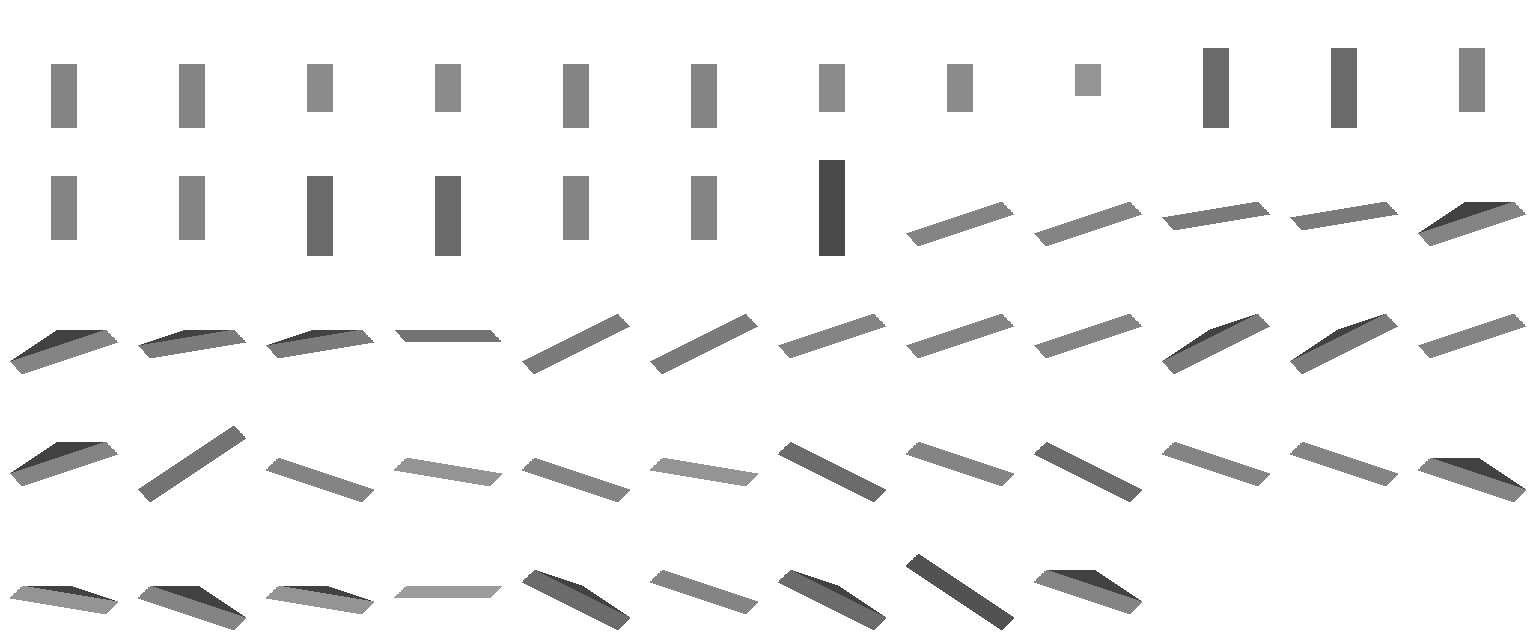
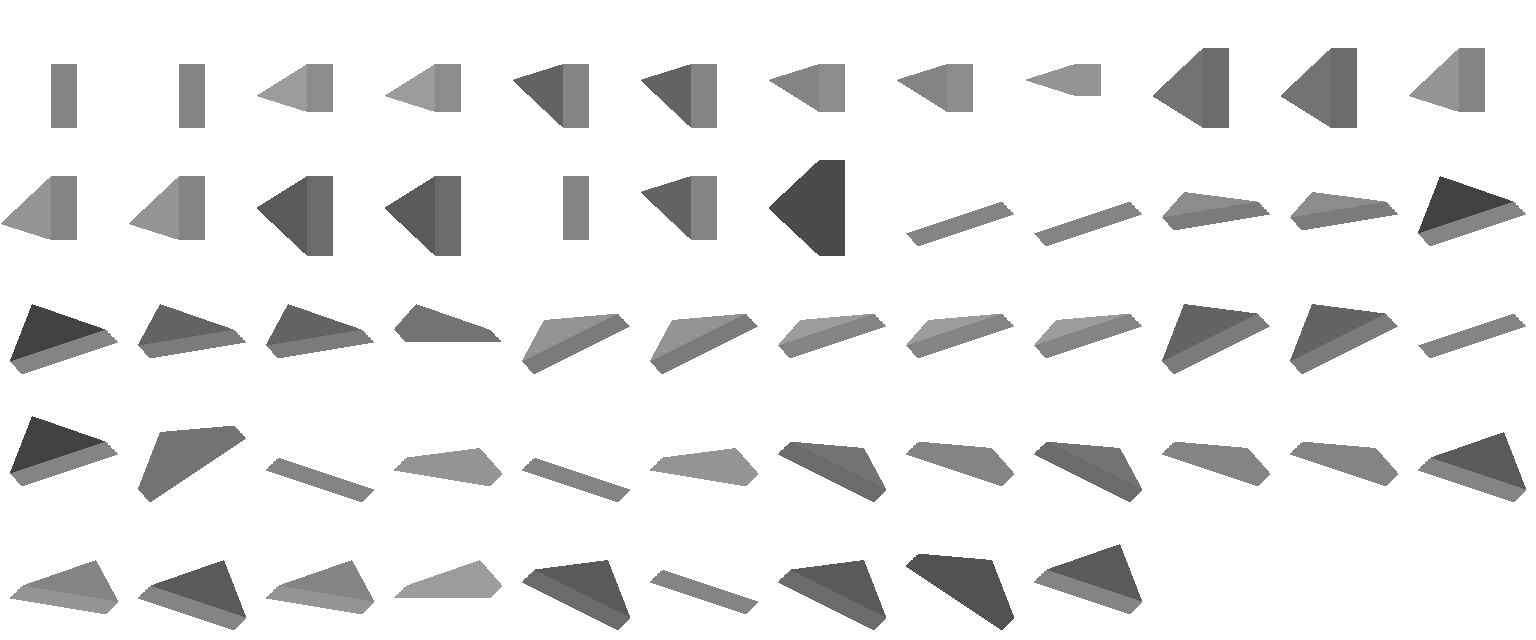
way_wall: slope side face from chord edge out to natural-ground corner
Apex moves from the chord strip's long-edge midpoint (degenerate in
plan) to the off-axis hex corner xy.  The triangle becomes a real
sloped face — a nasyp / cut angle — with apex height equal to natural
ground at the actual corner, so the wall meets the surrounding terrain
exactly at its boundary instead of approximating mid-edge ground
height.  Lambert grey now reads as terrain shade rather than uniform
wall grey; the front sprite, previously a vertical wall sliver, now
blends with the climate-textured ground.

Side-effect: NS-axis front cells, which previously rendered as zero-
width verticals and got filtered out, now have plan-view area and are
emitted (front atlas: 28 -> 48 cells).

Trim the corner-at-`t=0.5` invariant — it was load-bearing only for
the old apex placement.  Replace with the invariant the new geometry
depends on: `AXIS_OFF_AXIS_CORNERS`'s signed pairing (off_pos on
+perp, off_neg on -perp) lines up with `side_sign`'s winding flip.

diff --git a/landscape/grounds/way_wall/build_pakset.py b/landscape/grounds/way_wall/build_pakset.py
@@ -5,9 +5,10 @@ A way running through a tile on one of the three hex axes occupies a
 chord strip of half-width `hex_synth.WAY_HALF_WIDTH` from one touched
 edge midpoint to the opposite midpoint, at chord height `h_way`.
 Outside the strip is natural ground at the slope's corner heights.
-Where they differ the engine renders a vertical wall along the strip's
-long edge — a *cut* face if natural ground rises above the way
-(`h_off > h_way`), a *nasyp* face if it sinks below.
+Where they differ the engine renders an angled face spanning from the
+strip's long edge at chord height to the off-axis corner at natural
+ground height — a *cut* slope if natural ground rises above the way
+(`h_off > h_way`), a *nasyp* (embankment) slope if it sinks below.
 
 Cells ship as **lightmaps**: per-face Lambert grey under
 `hex_synth.LIGHT` in RGB, coverage mask in alpha.  The engine composes
@@ -34,17 +35,19 @@ along `hex_synth.front_back_split`:
 encoding `texture_lightmap` uses).  Only slopes admitting a way on
 that axis are emitted; others read as `IMG_EMPTY`.
 
-Geometry per cell: one triangle per off-axis side, anchored at the
-chord strip's long edge.  The base follows the chord plane (ramped
-on ramp axes) from `(p_start, h_we1)` to `(p_end, h_we2)`; the apex
-sits at the long edge's midpoint at the off-axis corner's natural
-height `h_off`.  At the touched-edge ends the wall has zero height —
-the level-edge constraint (`axis_h_way`) guarantees natural ground
-is at `h_we` there, so the wall must taper to nothing.  Apex height
-= corner height is exact only at the corner itself; the engine's
-surface triangulation between the long edge and the corner is not
-mirrored here, so the apex slightly over- or under-estimates the
-true ground height at the long edge's midpoint.
+Geometry per cell: one triangle per off-axis side.  The base
+follows the chord plane (ramped on ramp axes) along the chord
+strip's long edge from `(p_start, h_we1)` to `(p_end, h_we2)`; the
+apex sits at the off-axis hex corner `(corner_xy, h_off)`.  At the
+touched-edge ends the slope has zero height — the level-edge
+constraint (`axis_h_way`) guarantees natural ground is at `h_we`
+there, so the face must taper to nothing.  Because the apex lies at
+the corner itself, apex height = corner height is exact: the
+triangle's three vertices all sit on real ground points, so the
+embankment face matches the natural-ground surface at its boundary.
+The face is no longer vertical — its normal tilts toward +z — so
+its Lambert grey reads as a sloped terrain surface (real nasyp /
+cut angle) rather than a wall.
 
 The engine's `grund_t::display_way_walls` calls `get_way_wall_back_image`
 in `display_boden` before the way draw; `display_way_walls_front` calls
@@ -102,32 +105,27 @@ def _face_lightmap_rgb(face_pts_world,
 
 
 def _validate_axis_geometry() -> None:
-    """Module-load asserts on the hex-axis geometry the triangle wall
-    depends on.  Cheap (3 axes × a handful of dot products) and runs
-    once at import; cheap insurance against `hex_synth` changing one
-    of these invariants out from under us.
+    """Module-load asserts on the hex-axis invariants the side-slope
+    triangle depends on.  Cheap insurance against `hex_synth` changing
+    one of these out from under us.
 
     Invariants:
 
-      * The midpoint of `(mp1, mp2)` is the hex centre `(0, 0)` for
-        every axis.  Equivalent: `mp2 == -mp1`, since the touched
-        edges are antipodal across the centre.  This is what makes
-        the long-edge midpoint reduce to `side_sign * WAY_HALF_WIDTH
-        * perp`.
       * `axis_perp_vector(axis)` is parallel (up to sign) to the
-        touched-edge direction.  Equivalent: the chord strip's long
-        edge ends sit on the touched-edge lines of the hex.  Without
-        this, `p_start` and `p_end` wouldn't sit on the touched edges
-        and the wall's "zero height at the ends" claim breaks.
-      * Both off-axis corners project to `t == 0.5` on the axis —
-        i.e. the apex `(p_mid, h_off)` is exactly the long edge's
-        closest point to the off-axis corner.
+        touched-edge direction.  This is what makes `p_start = mp1 +
+        side_sign * WAY_HALF_WIDTH * perp` (and `p_end` from `mp2`)
+        sit on the touched-edge line of the hex.  Combined with
+        `axis_h_way`'s level-edge constraint (both touched-edge
+        corners at `h_we`), it pins the slope's base ends to natural
+        ground — so the triangle tapers to zero height there.
+      * `AXIS_OFF_AXIS_CORNERS[axis] = (off_pos, off_neg)` puts
+        `HEX_CORNER_XY[off_pos]` on the +perp side of the axis and
+        `[off_neg]` on the -perp side.  This is the signed pairing
+        `_build_model` relies on: `side_sign = +1` is fed `corner_pos`
+        so the triangle's three vertices land on the same half-plane
+        of the axis (consistent winding → consistent outward normal).
     """
     for axis in (hex_synth.NS, hex_synth.NE_SW, hex_synth.NW_SE):
-        mp1, mp2 = hex_synth.axis_edge_midpoints(axis)
-        assert abs(mp1[0] + mp2[0]) < 1e-9 and abs(mp1[1] + mp2[1]) < 1e-9, \
-            f"axis {axis}: mp1+mp2 != 0 (mp1={mp1}, mp2={mp2})"
-
         perp = hex_synth.axis_perp_vector(axis)
         (a0_i, a1_i), _ = hex_synth.AXIS_EDGE_CORNERS[axis]
         ca = hex_synth.HEX_CORNER_XY[a0_i]
@@ -138,55 +136,62 @@ def _validate_axis_geometry() -> None:
         assert abs(cross) < 1e-9, \
             f"axis {axis}: perp not parallel to touched edge (cross={cross})"
 
-        d = (mp2[0] - mp1[0], mp2[1] - mp1[1])
-        d_norm_sq = d[0] * d[0] + d[1] * d[1]
         off_pos, off_neg = hex_synth.AXIS_OFF_AXIS_CORNERS[axis]
-        for off_i in (off_pos, off_neg):
+        for off_i, want_sign in ((off_pos, +1), (off_neg, -1)):
             c = hex_synth.HEX_CORNER_XY[off_i]
-            t = ((c[0] - mp1[0]) * d[0] + (c[1] - mp1[1]) * d[1]) / d_norm_sq
-            assert abs(t - 0.5) < 1e-9, \
-                f"axis {axis} off-axis corner {off_i}: t={t}, expected 0.5"
+            dot = c[0] * perp[0] + c[1] * perp[1]
+            assert dot * want_sign > 1e-9, (
+                f"axis {axis} off-axis corner {off_i}: "
+                f"corner·perp={dot}, expected sign {want_sign}")
 
 
 _validate_axis_geometry()
 
 
-def _side_layer(axis: int, side_sign: int) -> str:
-    """Which atlas layer carries the off-axis side cliff at `side_sign`.
+def _side_layer(axis: int, corner_xy) -> str:
+    """Which atlas layer carries the off-axis side slope whose apex is
+    at `corner_xy`.
 
-    The triangle is edge-on in plan view (all three vertices lie on
-    the chord strip's long edge), so its plan-view centroid is the
-    long edge's midpoint `side_sign * WAY_HALF_WIDTH * perp` — the
-    touched-edge midpoints sum to zero by axis symmetry.  We evaluate
-    `front_back_split` at that single point.  `"front"` means the
-    cliff is on the camera-near half — drawn after vehicles so the
+    All three triangle vertices sit on the same half-plane of the axis
+    (the perp-side check in `_validate_axis_geometry`), so any vertex
+    classifies the face identically.  We pick the corner because it's
+    the apex and the cleanest reference point.  `"front"` means the
+    slope is on the camera-near half — drawn after vehicles so the
     train occludes correctly.
     """
-    perp = hex_synth.axis_perp_vector(axis)
-    cx = side_sign * hex_synth.WAY_HALF_WIDTH * perp[0]
-    cy = side_sign * hex_synth.WAY_HALF_WIDTH * perp[1]
-    return "front" if bool(hex_synth.front_back_split(cx, cy, axis)) else "back"
+    return ("front" if bool(hex_synth.front_back_split(corner_xy[0],
+                                                       corner_xy[1], axis))
+            else "back")
 
 
 def _add_side_triangle(model: Model, mp1, mp2, perp, side_sign: int,
+                       corner_xy,
                        h_top1: int, h_top2: int, h_bot: int,
                        z_per_step: float, geom: hex_synth.HexGeom,
                        layer: str) -> None:
-    """Append one off-axis-side cliff triangle as a per-face lightmap.
+    """Append one off-axis-side slope triangle as a per-face lightmap.
 
-    Base along the chord top from `(p_start, h_we1=h_top1)` to
-    `(p_end, h_we2=h_top2)`; apex at `(p_mid, h_off=h_bot)`, where
-    `p_mid` is the long edge's midpoint.  Winding flips with
-    `side_sign` so the outward normal lands on the same side as the
-    original rectangular cliff: toward the way in both cut and nasyp.
-    Submitted via `Model.add_quad` with the apex duplicated as the
-    fourth vertex; the renderer's second sub-triangle is zero-area
-    and skipped by `_draw_triangle`'s denom check.
+    Base along the chord strip's long edge from `(p_start, h_we1=h_top1)`
+    to `(p_end, h_we2=h_top2)`; apex at the off-axis hex corner
+    `(corner_xy, h_off=h_bot)`.  The triangle therefore spans from the
+    strip's edge outward to the natural-ground corner, slanting in z
+    by `h_top - h_bot` — a real nasyp / cut angle rather than a
+    vertical wall.
+
+    Winding flips with `side_sign` so the outward normal lands on
+    the same side as the original rectangular cliff: away from the
+    way in both cut and nasyp.  Submitted via `Model.add_quad` with
+    the apex duplicated as the fourth vertex; the renderer's second
+    sub-triangle is zero-area and skipped by `_draw_triangle`'s
+    denom check.
 
     The face's Lambert grey comes from `_face_lightmap_rgb` so the
     rasterised RGB lands on `create_textured_tile`'s multiplier
     convention — the renderer is run with `ambient=1.0` to keep this
-    grey verbatim.
+    grey verbatim.  With the apex at the corner the face normal is no
+    longer horizontal, so this grey reads as terrain-slope shading
+    (front-side sprite blends with the surrounding ground), not a
+    wall.
     """
     if h_top1 == h_bot and h_top2 == h_bot:
         return
@@ -195,12 +200,10 @@ def _add_side_triangle(model: Model, mp1, mp2, perp, side_sign: int,
                mp1[1] + side_sign * hex_synth.WAY_HALF_WIDTH * perp[1])
     p_end   = (mp2[0] + side_sign * hex_synth.WAY_HALF_WIDTH * perp[0],
                mp2[1] + side_sign * hex_synth.WAY_HALF_WIDTH * perp[1])
-    p_mid   = ((p_start[0] + p_end[0]) / 2.0,
-               (p_start[1] + p_end[1]) / 2.0)
 
-    v_start = (p_start[0], p_start[1], h_top1 * z_per_step)
-    v_end   = (p_end[0],   p_end[1],   h_top2 * z_per_step)
-    v_apex  = (p_mid[0],   p_mid[1],   h_bot  * z_per_step)
+    v_start = (p_start[0],  p_start[1],  h_top1 * z_per_step)
+    v_end   = (p_end[0],    p_end[1],    h_top2 * z_per_step)
+    v_apex  = (corner_xy[0], corner_xy[1], h_bot * z_per_step)
 
     if side_sign > 0:
         pts = [v_start, v_end, v_apex, v_apex]
@@ -244,6 +247,8 @@ def _build_model(axis: int, slope: int, geom: hex_synth.HexGeom) -> Model:
     h_we1, h_we2 = hex_synth.axis_h_way(slope, axis)
     ch = hex_synth.decode_corner_heights(slope)
     off_pos, off_neg = hex_synth.AXIS_OFF_AXIS_CORNERS[axis]
+    corner_pos = hex_synth.HEX_CORNER_XY[off_pos]
+    corner_neg = hex_synth.HEX_CORNER_XY[off_neg]
     mp1, mp2 = hex_synth.axis_edge_midpoints(axis)
     perp = hex_synth.axis_perp_vector(axis)
     z_per_step = engine_z_per_step(1, geom.w)
@@ -251,12 +256,12 @@ def _build_model(axis: int, slope: int, geom: hex_synth.HexGeom) -> Model:
     model = Model()
     _add_top_quad(model, mp1, mp2, perp, h_we1, h_we2, z_per_step,
                   geom, layer="back")
-    _add_side_triangle(model, mp1, mp2, perp, +1,
+    _add_side_triangle(model, mp1, mp2, perp, +1, corner_pos,
                        h_we1, h_we2, ch[off_pos], z_per_step, geom,
-                       layer=_side_layer(axis, +1))
-    _add_side_triangle(model, mp1, mp2, perp, -1,
+                       layer=_side_layer(axis, corner_pos))
+    _add_side_triangle(model, mp1, mp2, perp, -1, corner_neg,
                        h_we1, h_we2, ch[off_neg], z_per_step, geom,
-                       layer=_side_layer(axis, -1))
+                       layer=_side_layer(axis, corner_neg))
     return model
 
 
